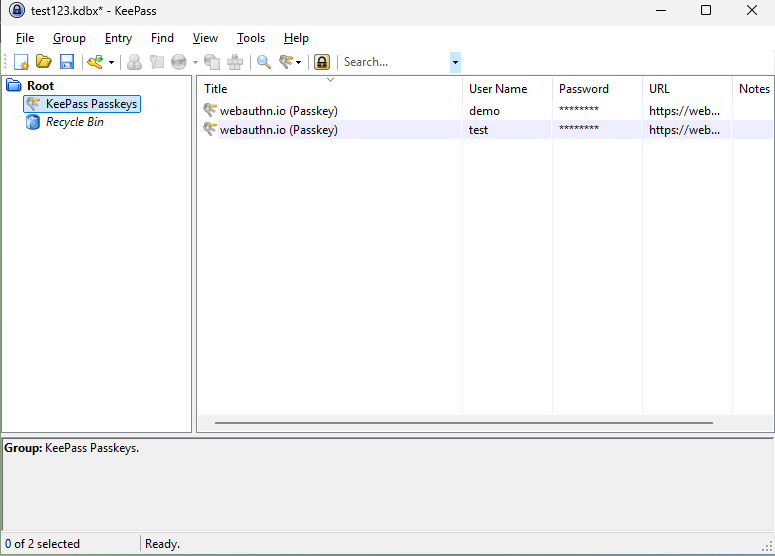
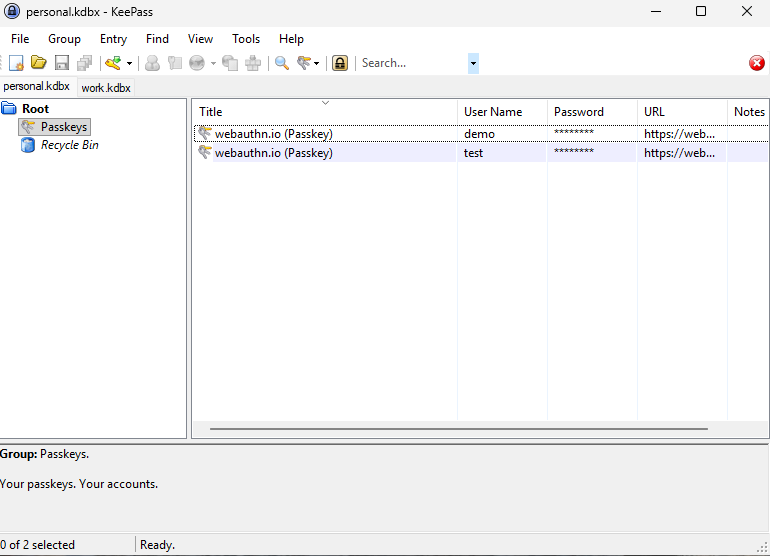
updated user guide

Changed region(s): [[0.0, 0.0, 1.0, 1.0], [0.9662, 0.0, 0.9974, 0.0306], [0.9039, 0.0, 0.9351, 0.0306]]

diff --git a/docs/user-guide.md b/docs/user-guide.md
@@ -33,9 +33,11 @@ A list of available passkey providers appears. Select **KeePassPasskey**.
 
 **Step 3: Confirm in the KeePassPasskey notification**
 
-A notification from KeePassPasskey appears in the taskbar. Click **Create passkey** to save the passkey to your KeePass database.
+A notification from KeePassPasskey appears in the taskbar. Click **Create passkey** to save the passkey to your KeePass database. If more than one KeePass database is unlocked, a database picker appears first. Select the database you want to save to.
 
-![KeePassPasskey notification with "Passkey creation requested" and the Create passkey button](images/passkey-creation-step3.png)
+<img src="images/passkey-creation-step3.png" width="300" alt="KeePassPasskey notification with &quot;Passkey creation requested&quot; and the Create passkey button">
+
+<img src="images/passkey-creation-select-db.png" width="300" alt="KeePassPasskey dialog for selecting which open KeePass database to save the passkey to">
 
 **Step 4: Passkey saved in KeePass**
 
@@ -65,7 +67,7 @@ If you did not use autofill and have multiple passkeys for this site, Windows sh
 
 A KeePassPasskey notification appears in the taskbar. Click **Approve** to confirm.
 
-![KeePassPasskey notification with "Authentication requested" and the Approve button](images/passkey-signin-approve.png)
+<img src="images/passkey-signin-approve.png" width="300" alt="KeePassPasskey notification with &quot;Authentication requested&quot; and the Approve button">
 
 ### Login with a password and passkey as a second factor
 
@@ -89,13 +91,13 @@ If you have multiple passkeys for this site, Windows shows a list. Select the on
 
 A KeePassPasskey notification appears in the taskbar. Click **Approve** to confirm.
 
-![KeePassPasskey notification with "Authentication requested" and the Approve button](images/passkey-signin-approve.png)
+<img src="images/passkey-signin-approve.png" width="300" alt="KeePassPasskey notification with &quot;Authentication requested&quot; and the Approve button">
 
 ## Managing passkeys in KeePass
 
 Passkeys are stored as standard KeePass entries in the **Passkeys** group.
 
-When creating a passkey and multiple databases are open, KeePassPasskey will ask you to choose which database to save it to. During sign-in, KeePassPasskey searches all open databases, so you do not need to switch databases before signing in. If a passkey ends up in the wrong database, you can move it via **Entry → Data Exchange → Copy/Paste Entry**.
+When creating a passkey and multiple databases are open, KeePassPasskey will ask you to choose which database to save it to (see step 4 in [Creating a passkey](#creating-a-passkey)). During sign-in, KeePassPasskey searches all open databases, so you do not need to switch databases before signing in. If a passkey ends up in the wrong database, you can move it via **Entry → Data Exchange → Copy/Paste Entry**.
 
 Passkey entries can be freely renamed or moved to any group in KeePass without affecting functionality. The **Passkeys** group itself can also be renamed. Note that if a group has searching disabled in KeePass, passkey entries inside it will not be found by KeePassPasskey. The KeePass Recycle Bin has searching disabled by default, so restoring a deleted passkey entry from there requires moving it to another group first.
 
@@ -123,6 +125,12 @@ Each passkey entry contains these custom fields:
 
 Open the KeePassPasskey app from the Start menu and navigate to **Settings**.
 
+### Appearance
+
+**Theme**: choose between System (follows Windows), Light, or Dark.
+
+**System tray icon**: when enabled, closing the window keeps the app running in the tray. The passkey provider continues to work regardless of whether the app is open.
+
 ### Notifications & User Verification
 
 Controls how KeePassPasskey confirms your identity before completing a passkey operation.
@@ -138,19 +146,15 @@ Separate settings exist for **Registration** (creating a passkey) and **Sign-in*
 
 **Show error notifications**: when enabled, KeePassPasskey shows a detailed notification if a passkey operation fails. Windows always shows its own generic error regardless of this setting.
 
-### Appearance
-
-Choose between System (follows Windows), Light, or Dark theme.
-
 ### Advanced
 
 These settings are rarely needed. Leave them at their defaults unless you are troubleshooting.
 
 | Setting | Description |
 |---|---|
-| Credential sync interval | How often passkey metadata is synced to the Windows autofill cache. Set to 0 to disable. **Be aware:** when disabled, passkeys will not appear in autofill suggestions or in the selection list when multiple passkeys exist for a site. |
 | Log level | Verbosity of log files. Increase to Debug when reporting a bug. |
 | Status refresh interval | How often the app polls for connection status. |
+| Credential sync interval | How often passkey metadata is synced to the Windows autofill cache. Set to 0 to disable. **Be aware:** when disabled, passkeys will not appear in autofill suggestions or in the selection list when multiple passkeys exist for a site. |
 | Max credential cache sync retries | After this many sync failures the background sync pauses and resumes on the next passkey request. |
 
 ## Troubleshooting